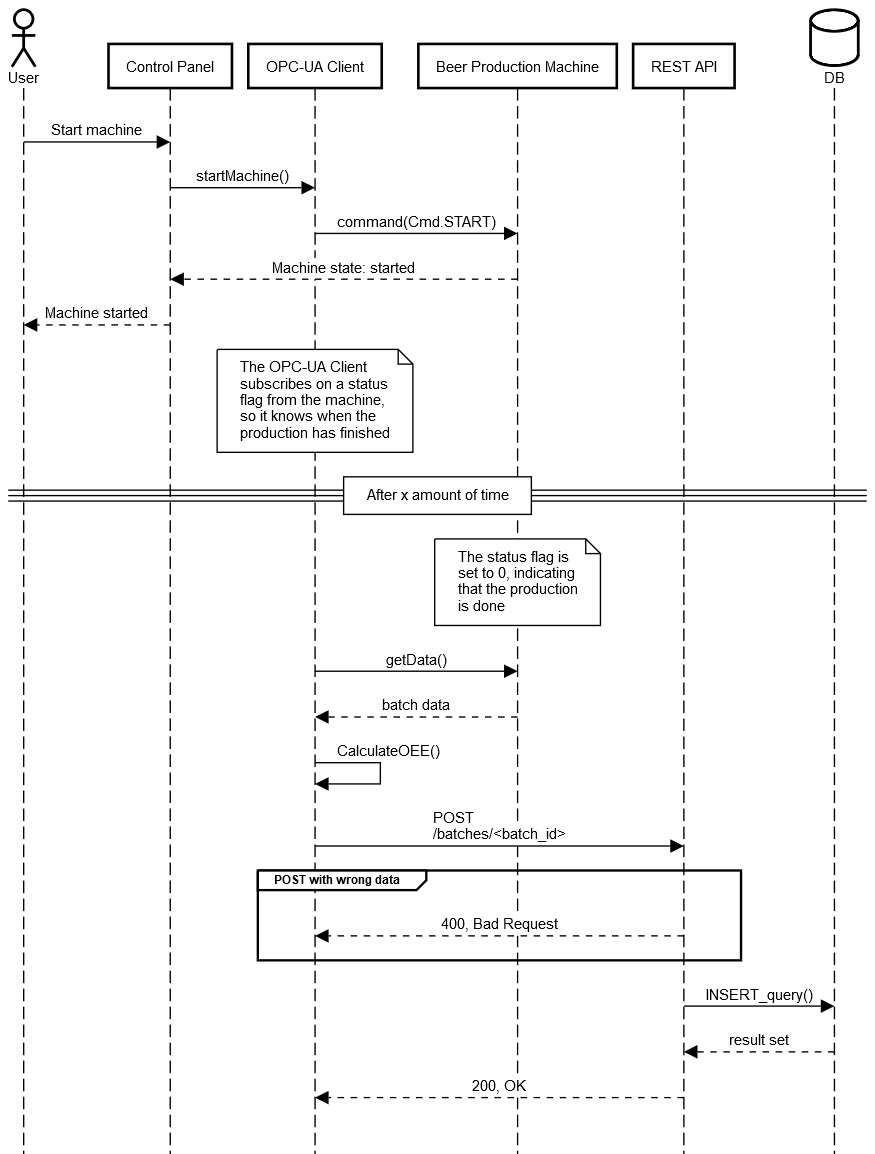
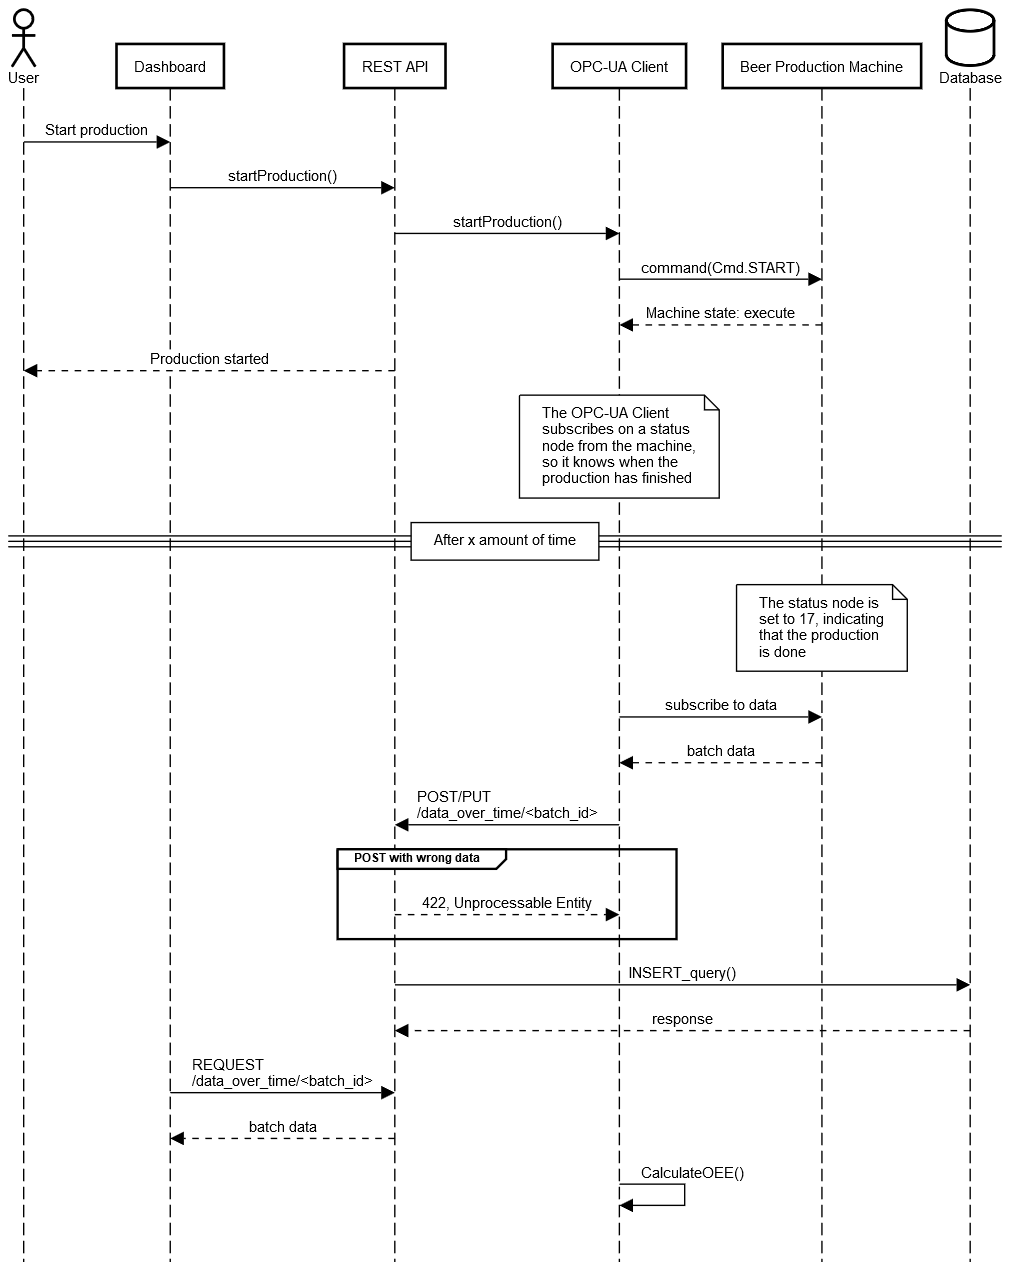
Corrections from review

diff --git a/project_report/tex/analysis.tex b/project_report/tex/analysis.tex
@@ -8,12 +8,13 @@ the potential class candidates and to make an initial analyses class diagram.
 
 \subsubsection{Class Candidates}
 In order to find potential class candidates, every noun of the detailed Use
-Cases are found. These are potential candidates and can be sorted to avoid
-duplicates and candidates that will not be turned into classes. Naturally, every
-potential class for the entire system will not be found, as this only reflects
-use cases. A potential class candidate such as MES (where Start and Stop
-functionality would otherwise be implemented) will not be reduced to a single
-class and is therefore not added to the list of class candidates.\\
+Cases are found. These are potential candidates and they are sorted to avoid
+duplicates. Some of the candidates are note elaborate enough and will not be
+turned into classes. Naturally, every potential class for the entire system will
+not be found, as this only reflects use cases. A potential class candidate such
+as MES (where Start and Stop functionality would otherwise be implemented) will
+not be reduced to a single class and is therefore not added to the list of class
+candidates.\\
 
 The final list of classes, as well as a description of them, can be seen in
 Table \ref{table:class_candidates}.
@@ -23,29 +24,29 @@ Table \ref{table:class_candidates}.
     \begin{tabularx}{\textwidth}{|>{\RaggedRight}p{4cm}|>{\RaggedRight}p{6cm}|>{\RaggedRight}X|}
     \hline
     \textbf{Class Candidate} & \textbf{Attributes}                                                                                                     & \textbf{Definition}                                                                    \\ \hline
-    Batch                    & Id, type, product\_amount (total, defect, acceptable), amount (time), state (current, history), OEE, production\_speed, & A batch refers to a specific batch of products the brewery has made                    \\ \hline
-    Product                  & Id, type, Ingredients                                                                                                  & Product refers to the different options of beer to be produced                         \\ \hline
+    Batch                    & Id, type, productAmount (total, defect, acceptable), amount (time), state (current, history), OEE, productionSpeed, & A batch refers to a specific batch of products the brewery has made                    \\ \hline
+    Product                  & Id, type, ingredients                                                                                                  & Product refers to the different options of beer to be produced                         \\ \hline
     \end{tabularx}
     \label{table:class_candidates}
     \end{table}
 
 \subsubsection{UML Analysis Diagram}
-From the verb/noun analysis from the previous chapter, the UML analysis class
-diagram seen in Figure \ref{figure:analysis_diagram}, can be generated. This
+The UML analysis class diagram, seen in Figure \ref{figure:analysis_diagram},
+can be generated based on the verb/noun analysis in the previous section. This
 diagram shows the classes and attributes found in the requirements from the
 project description.
 
 \begin{figure}[ht]
 	\centering 
-	\includegraphics[scale=0.6]{images/diagrams/UML_Analysis_Diagram.drawio.png}
+	\includegraphics[scale=0.6]{images/diagrams/class_diagram.png}
 	\caption{UML Analysis class diagram}
 	\label{figure:analysis_diagram} 
 \end{figure}
 
 \subsection{Use Case Realisation}
-To realise the scenarios in the use cases, use case realisation is used. Here,
-it can be described how a scenario in the system should be designed. The first
-step is to make operation contracts.
+To realise the scenarios in the use cases, use case realisation is used. In the
+realisation it can be described how a scenario in the system should be designed.
+The first step is to make operation contracts.
 
 \subsubsection{Operation Contracts}
 An operation contract describes the responsibility of an operation in the system.
@@ -61,24 +62,24 @@ operation is called. In Table \ref{table:Operation_Contracts_start} the
 operation contract for the start operation can be seen.
 
 \begin{table}[H]
-    \captionof{table}{Operation Contracts start} 
+    \captionof{table}{Operation Contracts Start} 
     \begin{tabularx}{\textwidth}{|>{\RaggedRight}p{3.7cm}|>{\RaggedRight}X|}
         \hline
-        \multicolumn{2}{|c|}{\textbf{start}}\\
+        \multicolumn{2}{|c|}{\textbf{Start}}\\
         \hline
-        \textbf{System operation} & start\\
+        \textbf{System operation} & Start\\
         \hline
-        \textbf{Cross References} & Use case: Start machine see Table \ref{table:usecase_start} \\
+        \textbf{Cross References} & Use case: Start machine, see Table \ref{table:usecase_start} \\
         \hline
         \textbf{Responsibility} & Starting the beer machine if the pre-conditions 
-        is met.
-            If the pre-conditions is not met, the beer machine will not start \\
+        is met. If the preconditions are not met, the beer machine will not
+        start \\
         \hline
         \textbf{Output} & The beer machine started the production\\
         \hline
-        \textbf{Pre-conditions} & 
-            The beer production machine needs to be in
-            ready mode, that is, not producing beer. \\
+        \textbf{Pre-conditions} & The beer production machine needs to be in
+        ready mode, that is, not producing beer and the necessary resources
+        needs to be available. \\
         \hline
         \textbf{Post-conditions} & The beer machine started brewing\\
         \hline
@@ -101,18 +102,18 @@ internal and external system events are described, as seen in Figure
 
 This sequence diagram is used to identify system functions, as the events shown
 in the diagram are the functions needed to complete the use case. In this
-specific use case, the actor, the user, wants to start the beer production
-machine. The user interacts with the dashboard by pressing the start button,
-which then sends a command to the OPC-UA client. The OPC-UA client interprets
-the command as a 'start machine command', which triggers an event in the OPC-UA
-client to send a command to the beer production machine. The beer production
-machine interprets the command as a start command, which then turns on the 
-machine. As a response to the user, to beer production machine sets a flag
-which the dashboard reacts to, and sends a message to the user. \\
+specific use case, the actor, the user, wants to start the beer production.
+The user interacts with the dashboard by pressing the start button,
+which then sends a command to the OPC-UA client via the API. The OPC-UA client
+interprets the command as a 'start machine command', which triggers an event in
+the OPC-UA client to send a command to the beer production machine. The beer
+production machine interprets the command as a start command, which then turns
+on the machine. As a response to the user, to batch id is set on the dashboard.\\
 
-When the beer production has finished, the OPC-UA client collects all relevant
-data from the beer production machine. This data is used to calculate the
-optimal production speed, estimate the error function, and calculate the OEE.
+When the beer production is running, the OPC-UA client sends all relevant
+data from the beer production machine to the API. The API then send the data to
+the dashboard, to show live production data. The data is also used to calculate
+the optimal production speed, estimate the error function, and calculate the OEE.
 These calculations are used to optimise the beer production. The calculated data
 and the data collected from the machine is then stored in a database. This
 happens through a REST API which acts as a translator between the different 
@@ -127,7 +128,7 @@ to be, once implemented.
 
 \begin{figure}[ht]
 \centering 
-\includegraphics[scale=0.3]{images/diagrams/updated_UML_Class_Diagram.drawio.png}
+\includegraphics[width=1\textwidth]{images/diagrams/updated_UML_Class_Diagram.drawio.png}
 \caption{Updated UML Class Diagram}
 \label{figure:updated_UML_class_diagram} 
 \end{figure}
